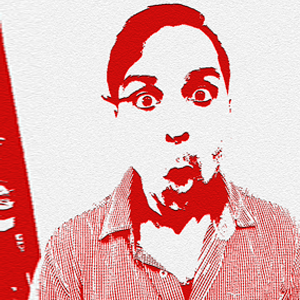
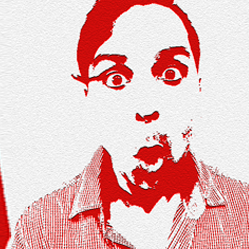
resized team member img

diff --git a/index.html b/index.html
@@ -912,7 +912,7 @@
         <div class="row">
 
             <div class="col-md-3 col-sm-6 col-xs-6 wow slideInLeft">
-                <figure class="team-member-lead">
+                <figure class="team-member">
                     <img src="img/1.1.png" alt=""  width="150" class="img-circle">
                     <figcaption class="text-right  f-18">The Art Director</figcaption>
                 </figure>
@@ -1859,7 +1859,7 @@
         <div class="row">
             <div class="col-md-12">
                 <h2 class="m-t-0 brand-c">Say Hello!</h2>
-                
+
 
                 <form action="PHPMailer/MailFunction.php" method="post">
                     <div class="row m-t-20">

diff --git a/css/custom.css b/css/custom.css
@@ -931,11 +931,11 @@ nav ul{
     cursor: pointer;
 }
 
-.team-member-lead :hover{
-    transform: scale(1.4);
-    transition: all .3s ease-out;
-    cursor: pointer;
-}
+/*.team-member-lead :hover{*/
+    /*transform: scale(1.4);*/
+    /*transition: all .3s ease-out;*/
+    /*cursor: pointer;*/
+/*}*/
 
 
 
